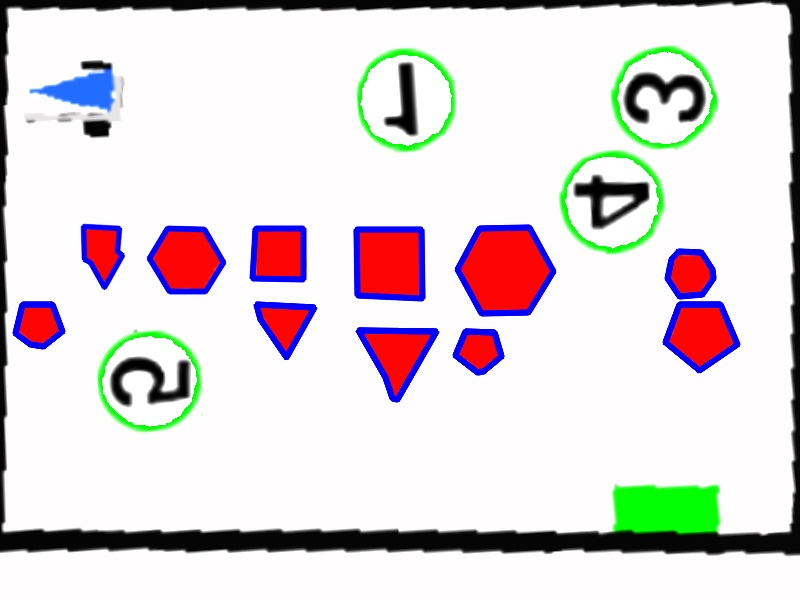
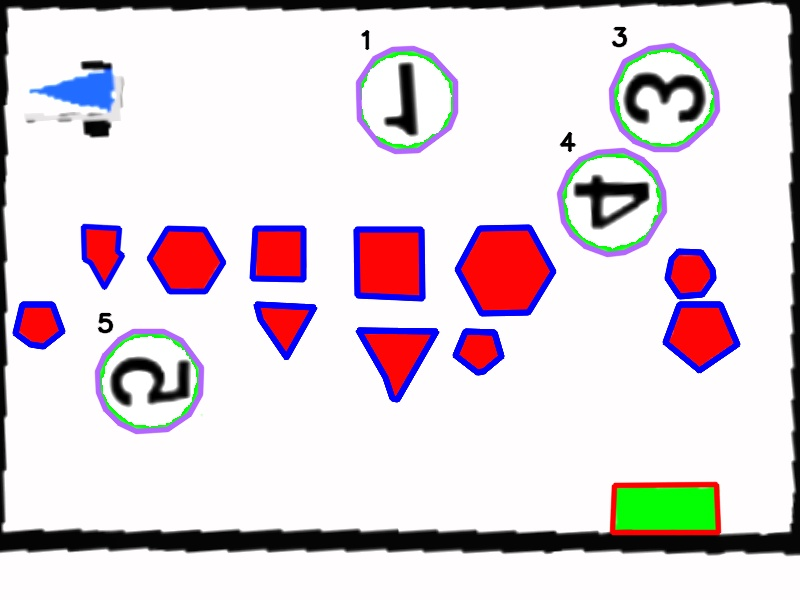
Merge + simulator parameter

diff --git a/src/process_arena.cpp b/src/process_arena.cpp
@@ -53,7 +53,13 @@ bool processGate(const cv::Mat &img_in, cv::Mat &showImage, const double scale, 
 
     // Find purple regions
     cv::Mat green_mask;
-    cv::inRange(hsv_img, cv::Scalar(40, 30, 50), cv::Scalar(85, 255, 180), green_mask);
+
+    //Real world
+    //cv::inRange(hsv_img, cv::Scalar(40, 30, 50), cv::Scalar(85, 255, 180), green_mask);
+
+    //Per simulatore
+    cv::inRange(hsv_img, cv::Scalar(45, 50, 50), cv::Scalar(75, 255, 255), green_mask);
+
 
     std::vector<std::vector<cv::Point>> contours, contours_approx;
     std::vector<cv::Point> approx_curve;
@@ -100,7 +106,11 @@ bool processVictims(const cv::Mat &img_in, cv::Mat &showImage, const double scal
 
     // Find green regions
     cv::Mat green_mask;
-    cv::inRange(hsv_img, cv::Scalar(40, 30, 50), cv::Scalar(85, 255, 180), green_mask);
+    //cv::inRange(hsv_img, cv::Scalar(40, 30, 50), cv::Scalar(85, 255, 180), green_mask);
+
+    //Per simulatore
+    cv::inRange(hsv_img, cv::Scalar(45, 50, 50), cv::Scalar(75, 255, 255), green_mask);
+
 
     std::vector<std::vector<cv::Point>> contours, contours_approx;
     std::vector<cv::Point> approx_curve;

diff --git a/src/student_interface.cpp b/src/student_interface.cpp
@@ -467,7 +467,7 @@ namespace student {
             //Get the dubins curve
             Dubins dub;
 
-            dub.setParams(rob_x, rob_y, rob_theta, xf, yf, angle, 20.0);
+            dub.setParams(rob_x, rob_y, rob_theta, xf, yf, angle, 15.0);
 
             pair<int, curve> ret = dub.shortest_path();
             curve cur = ret.second;
